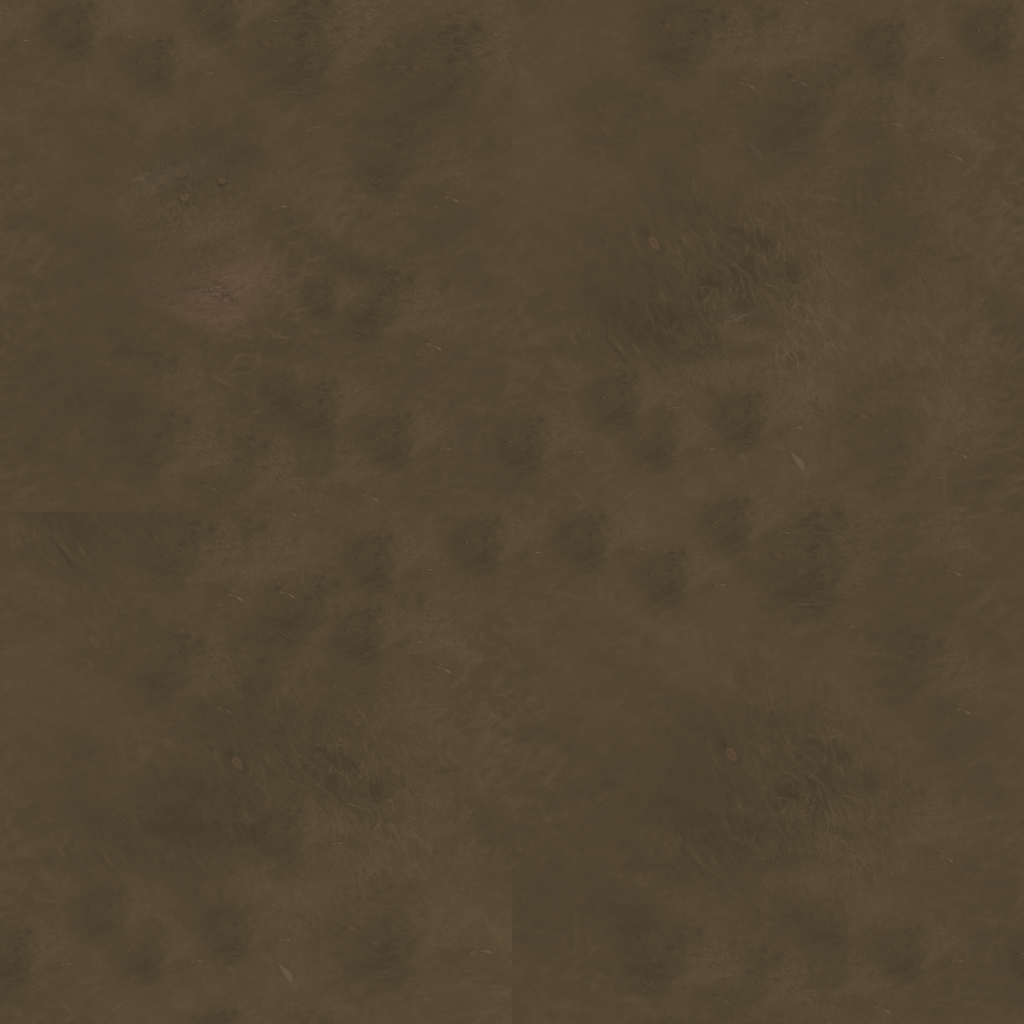
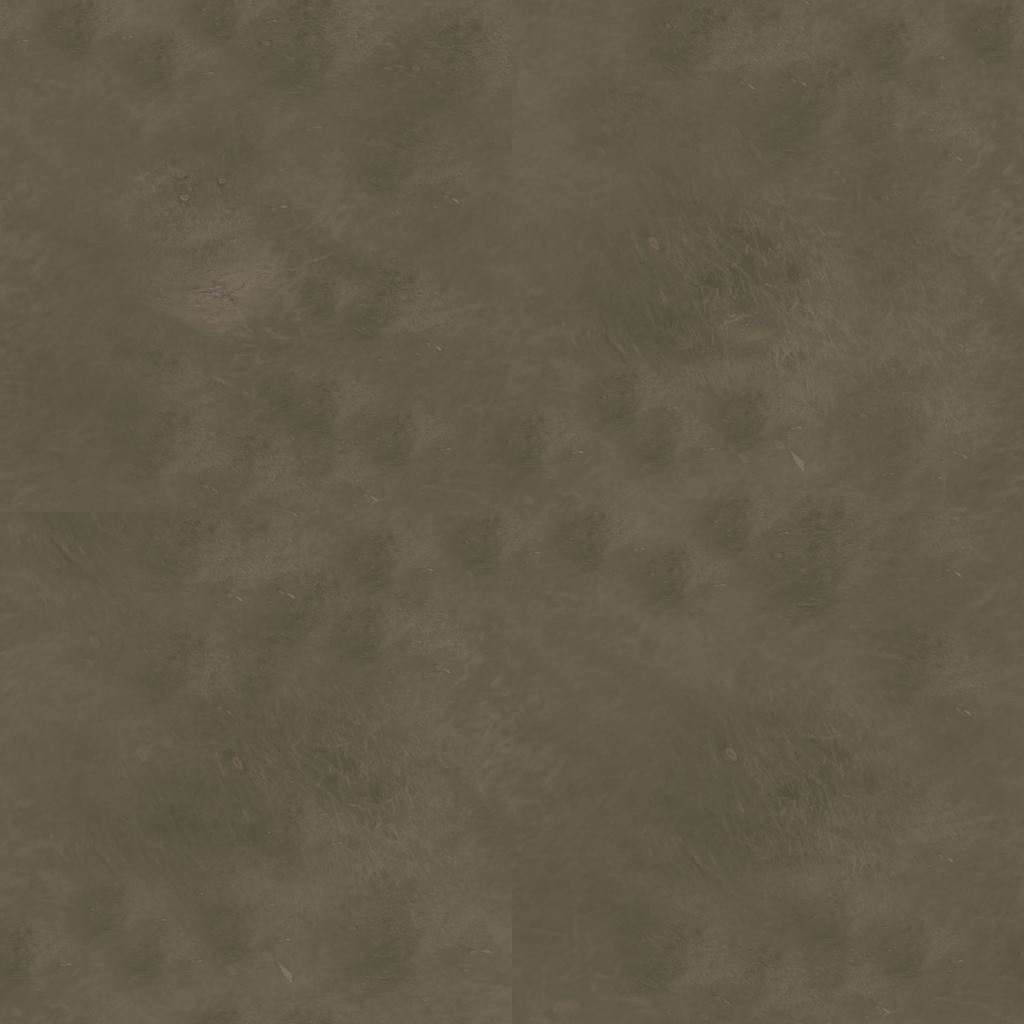
Ландшафт: матовые слои (гладкость не из альфы), земля Dire суше, яма ущельем со скруглённым неровным краем
Claude-Session: https://claude.ai/code/session_01L8bFryjPt25ayMp5s8S8Cr

diff --git a/Assets/Editor/LandscapeBuilder.cs b/Assets/Editor/LandscapeBuilder.cs
@@ -35,7 +35,12 @@ namespace PudgeWars.EditorTools
         const int HeightmapResolution = 257;
         const float TerrainBottom = -7f, TerrainHeight = 24f;
         const float PitDepth = 6f;     // below the falling heroes' kill height (Arena.killHeight)
-        const float PitLip = 0.75f;    // the pit walls drop over this much, metres
+        // the pit walls go down over this much, rounded at the rim and at the bottom: a ravine, not a cut; a hero
+        // walking off the edge (the slowest way in) still falls in front of them, not through them
+        const float PitSlope = 1.8f;
+        const float PitEndSlope = 0.75f; // the ends at the side hills are steeper: heroes can fall in right there
+        const float PitRimJitter = 0.15f; // the rim wanders this much into the pit, never out of it (Arena.IsOverPit)
+        const float PitLedges = 0.35f;   // bumps on the walls, metres
         const float CliffHeight = 7f;  // the hills rise this high within the first CliffRun metres: too steep to climb
         const float CliffRun = 3f;
         const float RidgeHeight = 6f;  // and then this much more toward the terrain's edge
@@ -114,7 +119,7 @@ namespace PudgeWars.EditorTools
                 float u = (x + 0.5f) / aRes, v = (z + 0.5f) / aRes;
                 float wx = -half + u * TerrainSize, wz = -half + v * TerrainSize;
                 float y = data.GetInterpolatedHeight(u, v) + TerrainBottom;
-                float abyss = Mathf.SmoothStep(0f, 1f, Mathf.InverseLerp(-1.5f, -4f, y));
+                float abyss = Mathf.SmoothStep(0f, 1f, Mathf.InverseLerp(-2.5f, -5.5f, y));
                 float rock = Mathf.SmoothStep(0f, 1f, Mathf.InverseLerp(32f, 48f, data.GetSteepness(u, v)));
                 float ragged = (Mathf.PerlinNoise(border.x + wx * 0.15f, border.y + wz * 0.15f) - 0.5f) * 5f;
                 float dire = Mathf.SmoothStep(0f, 1f, Mathf.InverseLerp(-1.5f, 1.5f, wz + ragged));
@@ -155,8 +160,13 @@ namespace PudgeWars.EditorTools
             float dx = Mathf.Max(0f, Mathf.Abs(x) - arena.halfWidth), dz = Mathf.Max(0f, Mathf.Abs(z) - depth);
             if (dx <= 0f && dz <= 0f)
             {
-                float inward = arena.pitHalfDepth - Mathf.Abs(z); // the pit ends where the side hills begin
-                return inward > 0f && Mathf.Abs(x) < arena.halfWidth ? -PitDepth * Mathf.SmoothStep(0f, 1f, inward / PitLip) : 0f;
+                // how far into the pit, measured in wall widths (the pit ends where the side hills begin)
+                float rim = Mathf.PerlinNoise(bumps.x + x * 0.45f, bumps.y + Mathf.Sign(z) * 7f) * PitRimJitter;
+                float s = Mathf.Min((arena.pitHalfDepth - Mathf.Abs(z) - rim) / PitSlope, (arena.halfWidth - Mathf.Abs(x)) / PitEndSlope);
+                if (s <= 0f) return 0f;
+                s = Mathf.Clamp01(s);
+                float ledges = (Mathf.PerlinNoise(hills.x + x * 0.5f, hills.y + z * 0.5f) - 0.5f) * 2f * PitLedges * Mathf.Sin(s * Mathf.PI) * s; // none at the rim
+                return Mathf.Min(0f, -PitDepth * Mathf.SmoothStep(0f, 1f, s) + ledges);
             }
             float d = Mathf.Sqrt(dx * dx + dz * dz);
             float y = CliffHeight * Mathf.SmoothStep(0f, 1f, d / CliffRun)
@@ -191,6 +201,8 @@ namespace PudgeWars.EditorTools
             layer.diffuseTexture = texture;
             layer.tileSize = new Vector2(tile, tile);
             layer.metallic = 0f;
+            // matte: by default the smoothness comes from the texture's alpha, which is 1 in these images (wet look)
+            layer.smoothnessSource = TerrainLayerSmoothnessSource.ConstantOnly;
             layer.smoothness = 0f;
             EditorUtility.SetDirty(layer);
             return layer;

diff --git a/Tools/Landscape/make_ground_textures.py b/Tools/Landscape/make_ground_textures.py
@@ -30,8 +30,8 @@ def seamless(img):
 def dire(a):
     lum = a @ np.array([0.299, 0.587, 0.114], dtype=np.float32)
     grey = np.repeat(lum[..., None], 3, axis=2)
-    a = grey * 0.8 + a * 0.2  # most of the green is gone
-    a = a * np.array([1.05, 0.86, 0.72], dtype=np.float32) * 0.62  # ashy brown, darker
+    a = grey * 0.85 + a * 0.15  # most of the green is gone
+    a = a * np.array([1.0, 0.9, 0.8], dtype=np.float32) * 0.78  # dry ash with a little brown (darker reads as wet mud)
     return a
 
 
